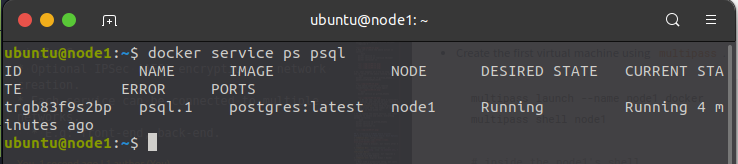
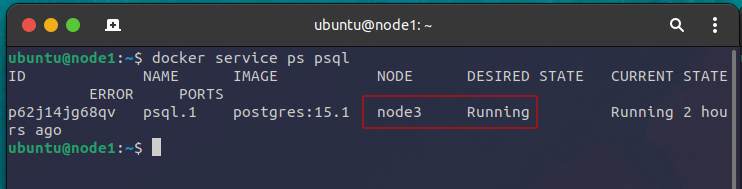
This is Manh Cuong's commit 🌻.

Changed region(s): [[0.0, 0.0, 1.0, 1.0], [0.4051, 0.0915, 0.5921, 0.1829], [0.9038, 0.061, 0.9661, 0.1829]]

diff --git a/README.md b/README.md
@@ -1328,50 +1328,59 @@ docker login
 
 
 * Now, create a `overlay` virtual network.
-  ```bash
-  docker network create --driver overlay mydrupal
-  ```
-  ![](./img/sec09/01.png)
+  * Node 1
+    ```bash
+    docker network create --driver overlay mydrupal
+    ```
+    ![](./img/sec09/01.png)
 
 * Now, create a `postgres` service and names it `psql`
-  ```bash
-  docker service create --name psql --network mydrupal -e POSTGRES_PASSWORD=mypass postgres:15.1
-  docker service ls
-  ```
+  * Node 1
+    ```bash
+    docker service create --name psql --network mydrupal -e POSTGRES_PASSWORD=mypass postgres:15.1
+    docker service ls
+    ```
   ![](./img/sec09/02.png)
 
-* Check `psql` service.
-  ```bash
-  docker service ps psql
-  ```
-  ![](./img/sec09/03.png)
+* Check `psql` service on `node1`.
+  * Node 1
+    ```bash
+    docker service ps psql
+    ```
+    ![](./img/sec09/03.png)
+    * The `psql` is currently running on `node3`. Let's move on shell of `node3` to get the logs of `psql` service.
 
-* Get the logs of container on `node1` which is running `psql` service.
-  ```bash
-  docker container logs psql.1.trgb83f9s2bpm6gi2uml3s4cp
-  ```
-  ![](./img/sec09/04.png)
+* Get the logs of container on `node3` which is running `psql` service.
+  * Node 3
+    ```bash
+    docker container ls
+    docker container logs psql.1.p62j14jg68qv2fgwcsk9qffug
+    ```
+    ![](./img/sec09/04.png)
 
-* Run `drupal` service.
-  ```bash
-  docker service create --name drupal --network mydrupal -p 80:80 drupal:9.3.13
-  docker service ls
-  ```
-  ![](./img/sec09/05.png)
+* Now let's run `drupal` service using **overlay virtual network** `mydrupal`.
+  * Node 1
+    ```bash
+    docker service create --name drupal --network mydrupal -p 80:80 drupal:9.3.13
+    docker service ls
+    ```
+    ![](./img/sec09/05.png)
 
 * Check `drupal` service.
-  ```bash
-  docker service ps drupal
-  ```
-  ![](./img/sec09/06.png)
+  * Node 1
+    ```bash
+    docker service ps drupal
+    ```
+    ![](./img/sec09/06.png)
+      * It is currently running on `node1`.
 
-* Now let's check the IPAddress of `drupal` service on `node1`
+* Now let's check the IPAddress of `drupal` service on `node1`, `node2`, and `node3`.
   ```bash
-  # node1
   hostname -I
   ```
   ![](./img/sec09/07.png)
-  * The IPAddress of `drupal` service is running on [http://10.181.211.176:80](http://10.181.211.176:80)
+  * The IPAddress of `drupal` service is running on [http://10.53.168.151:80](http://10.53.168.151:80), [http://10.53.168.248:80](http://10.53.168.248:80), and [http://10.53.168.226:80](http://10.53.168.226:80). You can go to visit any URL of them.
+  ![](./img/sec09/11.gif)
   ![](./img/sec09/09.png)
   * After all the setting was configured, we get this page.
   ![](./img/sec09/08.png)
